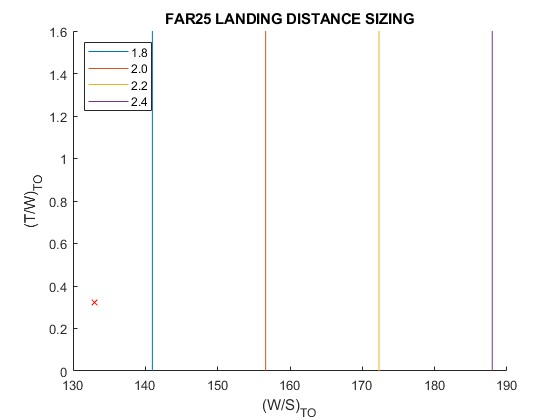
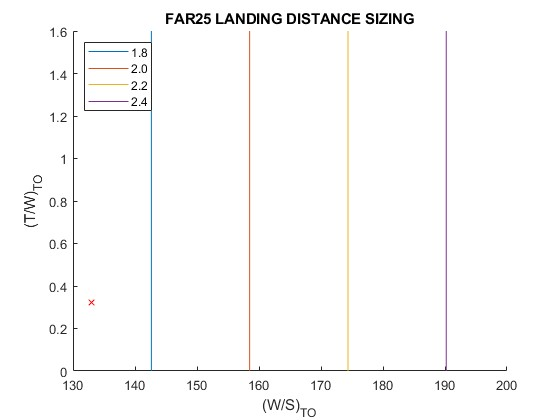
W_L/W_TO change from 0.85 to 0.84

diff --git a/Boeing737MAX8_Performance_sizing/Performance_sizing.m b/Boeing737MAX8_Performance_sizing/Performance_sizing.m
@@ -92,7 +92,7 @@ end
 for CL_max_L = 1.8:0.2:2.4
     V_stall_sqrt = FieldLength/(0.3*1.3^2)/ft_s_to_kt^2;
     WoverS_landing = V_stall_sqrt/2*rho_FieldAltitude*CL_max_L;
-    WoverS_takeoff = WoverS_landing/0.85;
+    WoverS_takeoff = WoverS_landing/0.84;
     ToverW_landing = [0 1.6];
     WoverS_takeoff = [WoverS_takeoff WoverS_takeoff];
     plot(WoverS_takeoff,ToverW_landing,'color',[0.4660 0.6740 0.1880]); % green

diff --git a/Boeing737MAX8_Performance_sizing/Performance_sizing_separate_plot.m b/Boeing737MAX8_Performance_sizing/Performance_sizing_separate_plot.m
@@ -103,7 +103,7 @@ hold on
 for CL_max_L = 1.8:0.2:2.4
     V_stall_sqrt = FieldLength/(0.3*1.3^2)/ft_s_to_kt^2;
     WoverS_landing = V_stall_sqrt/2*rho_FieldAltitude*CL_max_L;
-    WoverS_takeoff = WoverS_landing/0.85;
+    WoverS_takeoff = WoverS_landing/0.84;
     ToverW_landing = [0 1.6];
     WoverS_takeoff = [WoverS_takeoff WoverS_takeoff];
     plot(WoverS_takeoff,ToverW_landing);
